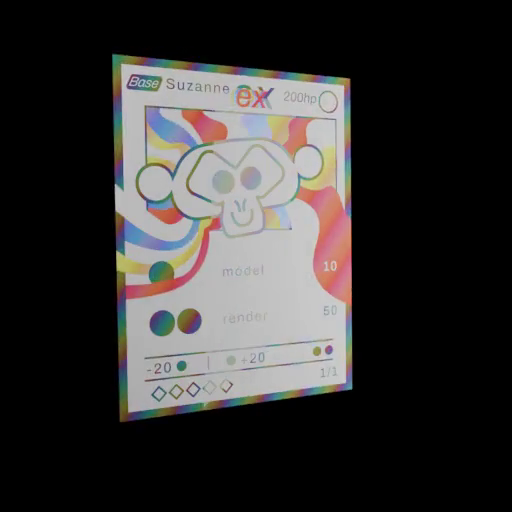
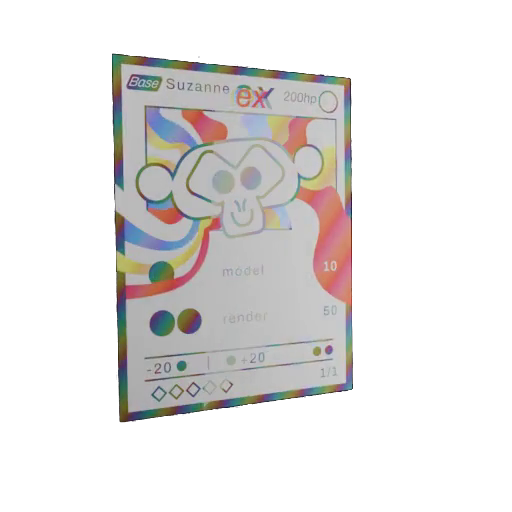
Gallery: re-render Coral Rock on Suzanne, fix Holo Card backdrop
- Coral Rock preview now rendered on the shared Suzanne + rig camera, matching the Mars/Galaxy framing (replaces the off-axis sphere render).
- Holographic Card: keyed the opaque black background to transparent and brightened the CSS gradient (#2a1840 -> #7b34e0) so it reads colourful like the rest of the gallery.
- Carry over preset-gallery polish: Holo Card stack shot, results strip, spacing pass, 13-preset counts.

diff --git a/presets.html b/presets.html
@@ -4,7 +4,7 @@
   <meta charset="UTF-8">
   <meta name="viewport" content="width=device-width, initial-scale=1.0">
   <title>Included Presets — Texture Layer Manager</title>
-  <meta name="description" content="The 12 preset materials that ship with Texture Layer Manager — photoreal surfaces, stylised NPR, image-driven effects and emissive looks. Each is a real, editable layer stack you can take apart, and presets save/load as .tlm files.">
+  <meta name="description" content="The 13 preset materials that ship with Texture Layer Manager — photoreal surfaces, stylised NPR, image-driven effects and emissive looks. Each is a real, editable layer stack you can take apart, and presets save/load as .tlm files.">
   <link rel="icon" href="assets/favicon.svg" type="image/svg+xml">
   <link rel="preconnect" href="https://fonts.googleapis.com">
   <link rel="preconnect" href="https://fonts.gstatic.com" crossorigin>
@@ -43,7 +43,7 @@
     <div class="section__inner">
       <a href="index.html" class="layerhero__back">&larr; Back to home</a>
       <p class="section__eyebrow reveal">Included presets</p>
-      <h1 class="layerhero__title reveal">12 preset materials</h1>
+      <h1 class="layerhero__title reveal">13 preset materials</h1>
       <p class="layerhero__lead reveal">Each preset is a real, editable layer stack &mdash; not a baked image. Load one as a starting point, or open it up to see exactly how the look is built. Save your own and share them as <code>.tlm</code> files.</p>
     </div>
   </header>
@@ -60,6 +60,11 @@
           <div class="presets__preview presets__preview--mars" role="img" aria-label="Mars Regolith preset"></div>
           <h4>Mars Regolith</h4>
           <p>Iron-oxide dust with drift mottling and a dry, rocky micro-surface &mdash; fully procedural, no textures.</p>
+        </div>
+        <div class="presets__card">
+          <div class="presets__preview presets__preview--coral-rock" role="img" aria-label="Coral Rock preset"></div>
+          <h4>Coral Rock</h4>
+          <p>Porous coral stone with real geometric displacement &mdash; Voronoi cells and layered noise carve the surface.</p>
         </div>
         <div class="presets__card">
           <div class="presets__preview presets__preview--galaxy-marble" role="img" aria-label="Galaxy Marble preset"></div>

diff --git a/index.html b/index.html
@@ -691,8 +691,8 @@
   <section class="section presets-section">
     <div class="section__inner">
       <p class="section__eyebrow reveal">Included presets</p>
-      <h2 class="section__title reveal">12 included preset materials.</h2>
-      <p class="section__subtitle reveal">The pack ships 12 complete stacks &mdash; photoreal PBR, stylised NPR, image-driven effects and emissive sci-fi. Each is a real, editable layer stack you can use as a starting point or open up to see how it&rsquo;s built. A sample:</p>
+      <h2 class="section__title reveal">13 included preset materials.</h2>
+      <p class="section__subtitle reveal">The pack ships 13 complete stacks &mdash; photoreal PBR, stylised NPR, image-driven effects and emissive sci-fi. Each is a real, editable layer stack you can use as a starting point or open up to see how it&rsquo;s built. A sample:</p>
       <div class="presets__strip reveal">
         <div class="presets__card">
           <div class="presets__preview presets__preview--anime-genshin-hero" role="img" aria-label="Anime Cel-Shaded preset"></div>
@@ -716,7 +716,7 @@
         </div>
       </div>
       <div style="text-align:center;margin-top:var(--space-10)">
-        <a href="presets.html" class="btn btn--primary btn--lg">Browse all 12 presets &rarr;</a>
+        <a href="presets.html" class="btn btn--primary btn--lg">Browse all 13 presets &rarr;</a>
       </div>
     </div>
   </section>

diff --git a/css/sections.css b/css/sections.css
@@ -619,7 +619,7 @@
 .presets__preview--holo-card {
   background-image:
     url('../assets/images/presets/holo-card.png'),
-    linear-gradient(135deg, #2a1840, #ff3cf0, #2cc8ff);
+    linear-gradient(135deg, #7b34e0, #ff3cf0, #2cc8ff);
 }
 .presets__preview--inverted-checker {
   background-image:
@@ -630,6 +630,11 @@
   background-image:
     url('../assets/images/presets/mars.png'),
     linear-gradient(135deg, #6e2a14, #b8642a, #d8a060);
+}
+.presets__preview--coral-rock {
+  background-image:
+    url('../assets/images/presets/coral-rock.png'),
+    linear-gradient(135deg, #2a1a12, #6b4326, #b07a4a);
 }
 .presets__preview--mirror {
   background-image:

diff --git a/features.html b/features.html
@@ -247,7 +247,7 @@
           <span class="badge">Presets</span>
           <ul class="branching__list">
             <li><span class="branching__ch">.tlm files</span> save, load and share whole stacks.</li>
-            <li><span class="branching__ch">12 included</span> photoreal, stylised, image-driven and emissive starting points.</li>
+            <li><span class="branching__ch">13 included</span> photoreal, stylised, image-driven and emissive starting points.</li>
           </ul>
         </div>
 
